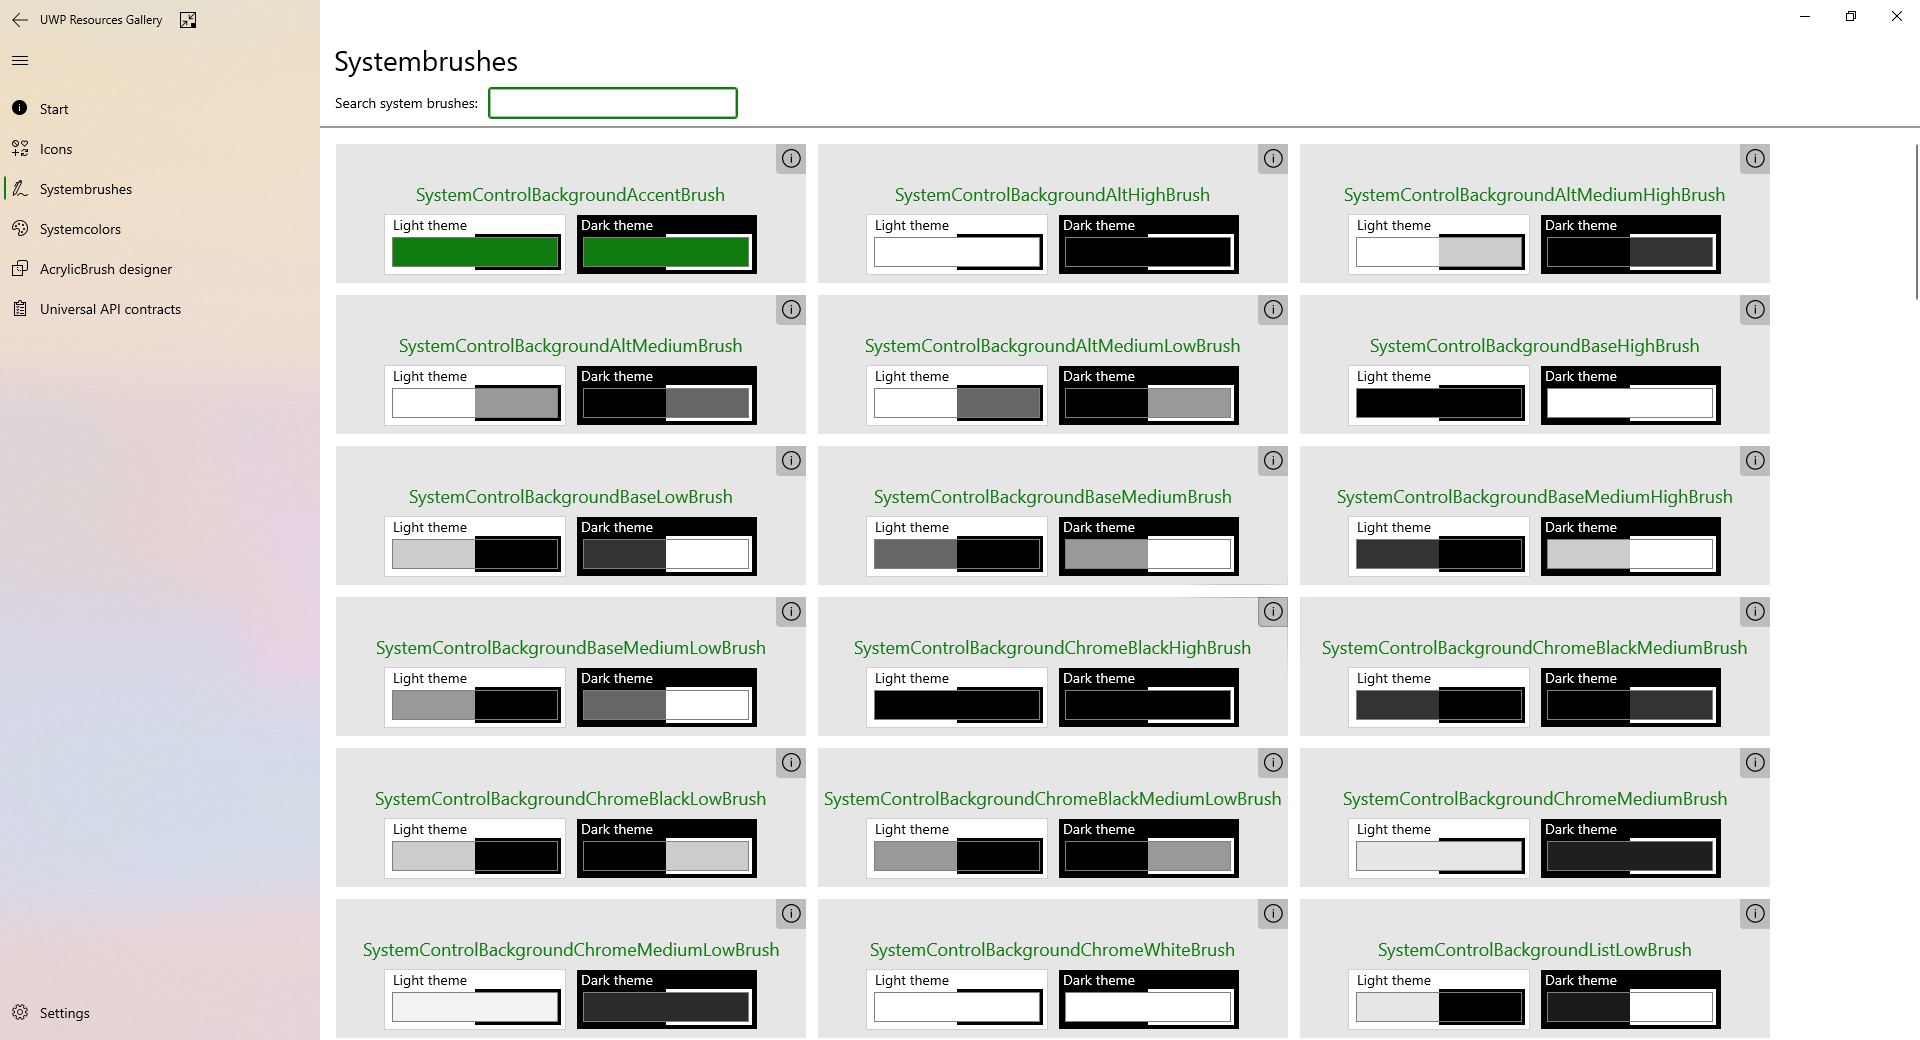
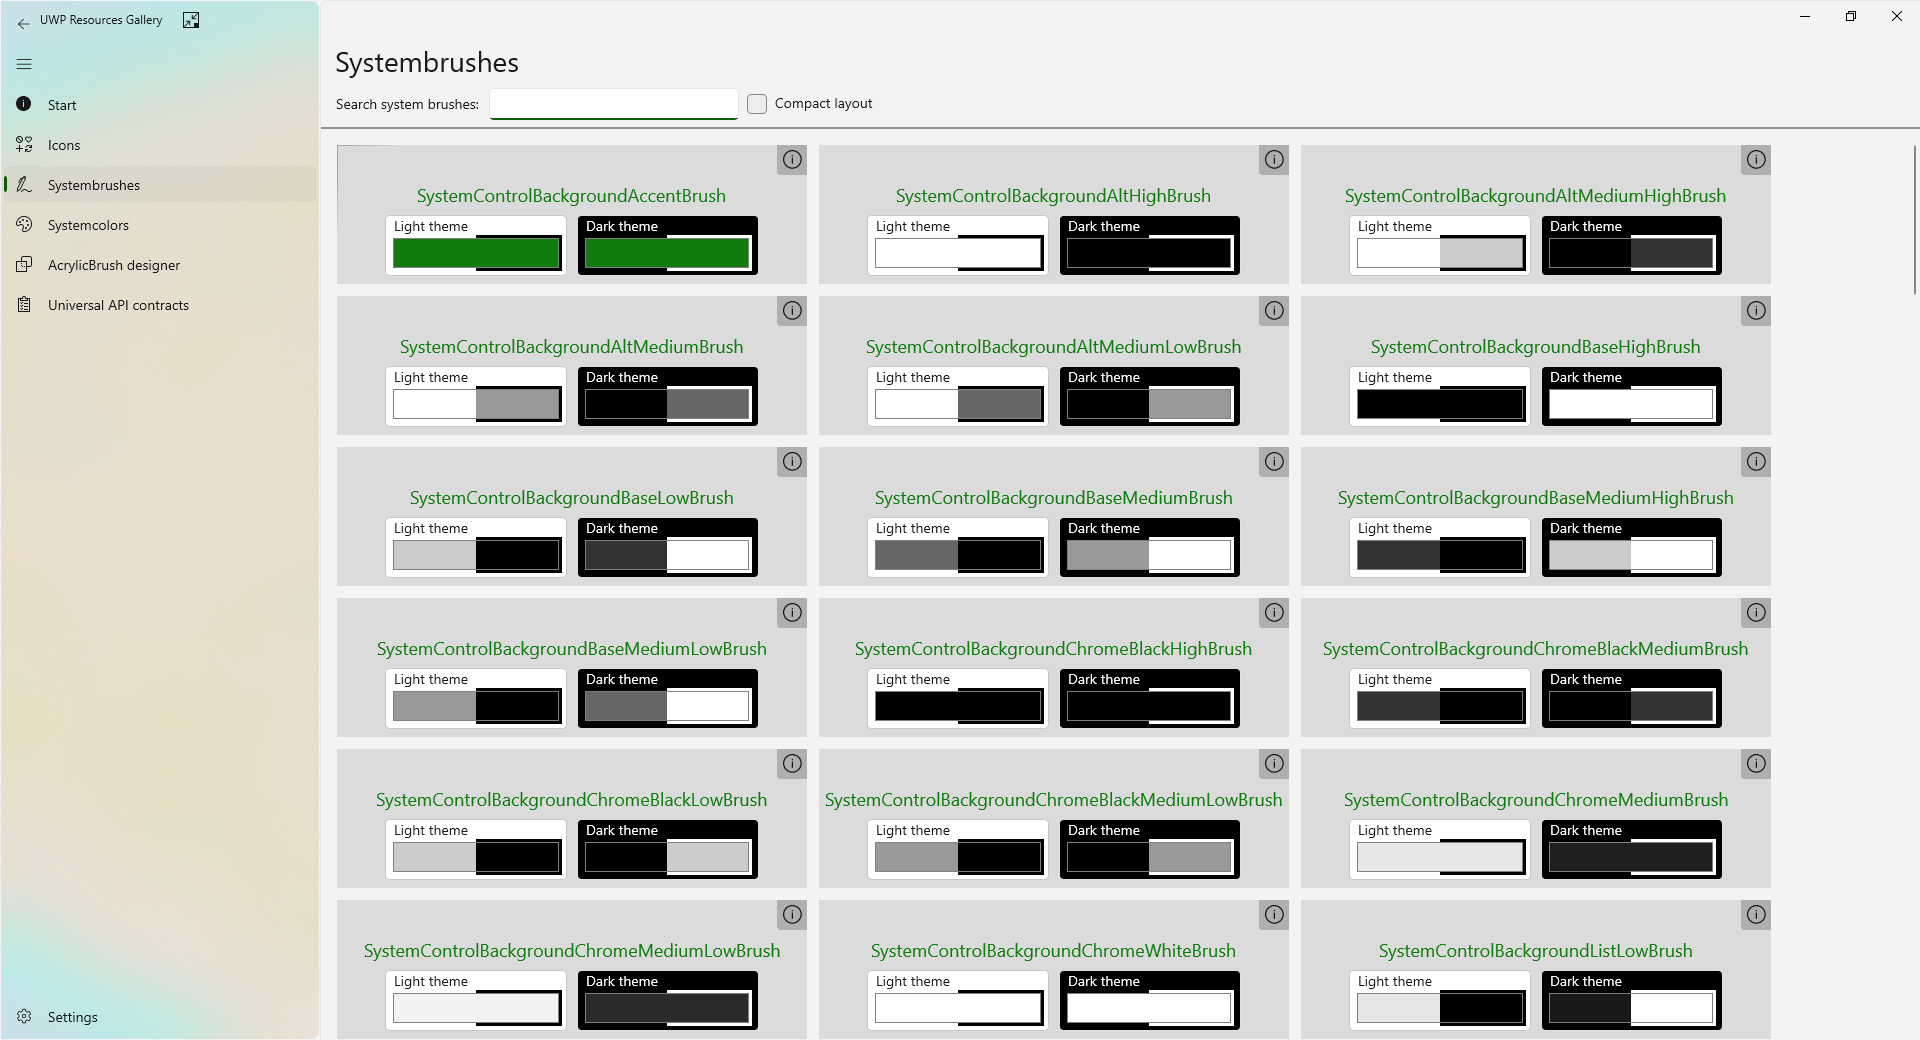
Bump versions, update screenshots, small UI updates (#109)

diff --git a/src/UWPResourcesGallery/Pages/StartPage.xaml b/src/UWPResourcesGallery/Pages/StartPage.xaml
@@ -172,19 +172,19 @@
                     FontSize="18"
                     VerticalAlignment="Bottom" Margin="0,5"/>
                 <StackPanel Grid.Row="1" Grid.Column="2" Padding="0,10">
-                    <StackPanel Background="{ThemeResource SystemChromeDisabledHighColor}"
+                    <StackPanel Background="{ThemeResource ButtonBackground}" CornerRadius="{ThemeResource ControlCornerRadius}"
                             Padding="10,0,10,10" Width="250" Margin="0,0,0,0">
                         <HyperlinkButton Content="Fluent XAML Theme Editor" FontSize="16"
                                 NavigateUri="https://www.microsoft.com/store/apps/9N2XD3Q8X57C"/>
                         <TextBlock TextWrapping="WrapWholeWords"
                             Text="A design development tool you can use to create custom themes for the Windows Universal Platform."/>
                     </StackPanel>
-                    <StackPanel Background="{ThemeResource SystemChromeDisabledHighColor}"
+                    <StackPanel Background="{ThemeResource ButtonBackground}" CornerRadius="{ThemeResource ControlCornerRadius}"
                             Padding="10,0,10,10" Width="250" Margin="0,10,0,10">
                         <HyperlinkButton Content="XAML Controls Gallery" NavigateUri="https://www.microsoft.com/store/productId/9MSVH128X2ZT"/>
                         <TextBlock Text="Shows all of the XAML controls in an interactive format" TextWrapping="WrapWholeWords"/>
                     </StackPanel>
-                    <StackPanel Background="{ThemeResource SystemChromeDisabledHighColor}"
+                    <StackPanel Background="{ThemeResource ButtonBackground}" CornerRadius="{ThemeResource ControlCornerRadius}"
                             Padding="10,0,10,10" Width="250">
                         <HyperlinkButton Content="XAML Studio" NavigateUri="https://www.microsoft.com/store/apps/9NTLS214TKMQ"/>
                         <TextBlock TextWrapping="WrapWholeWords"
